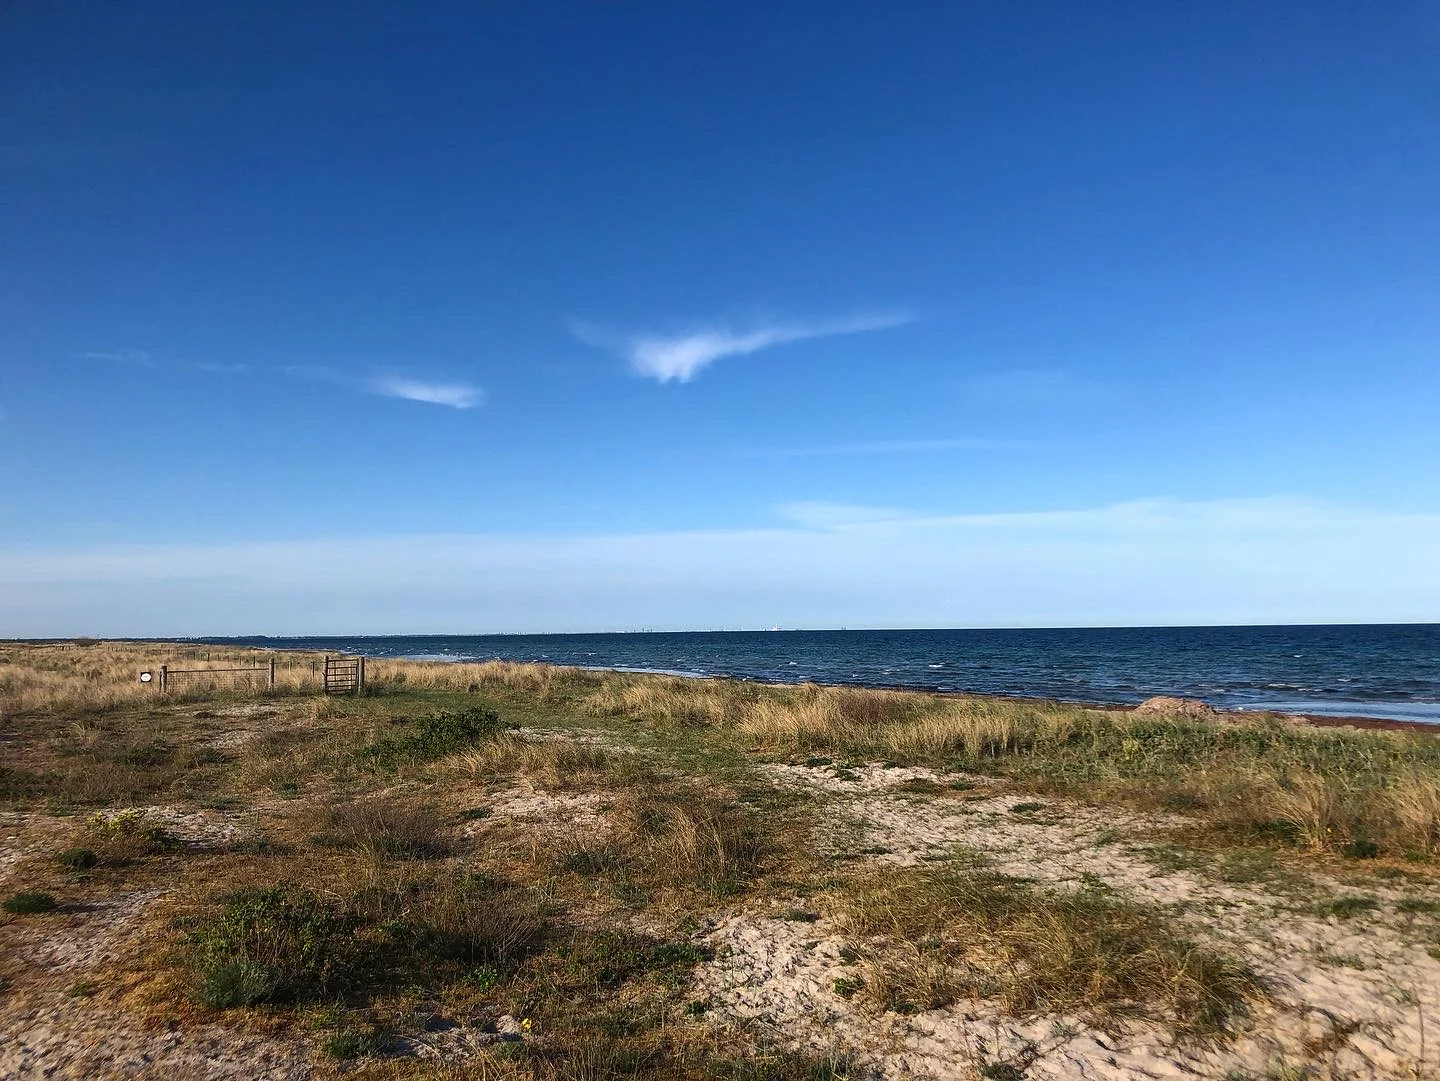
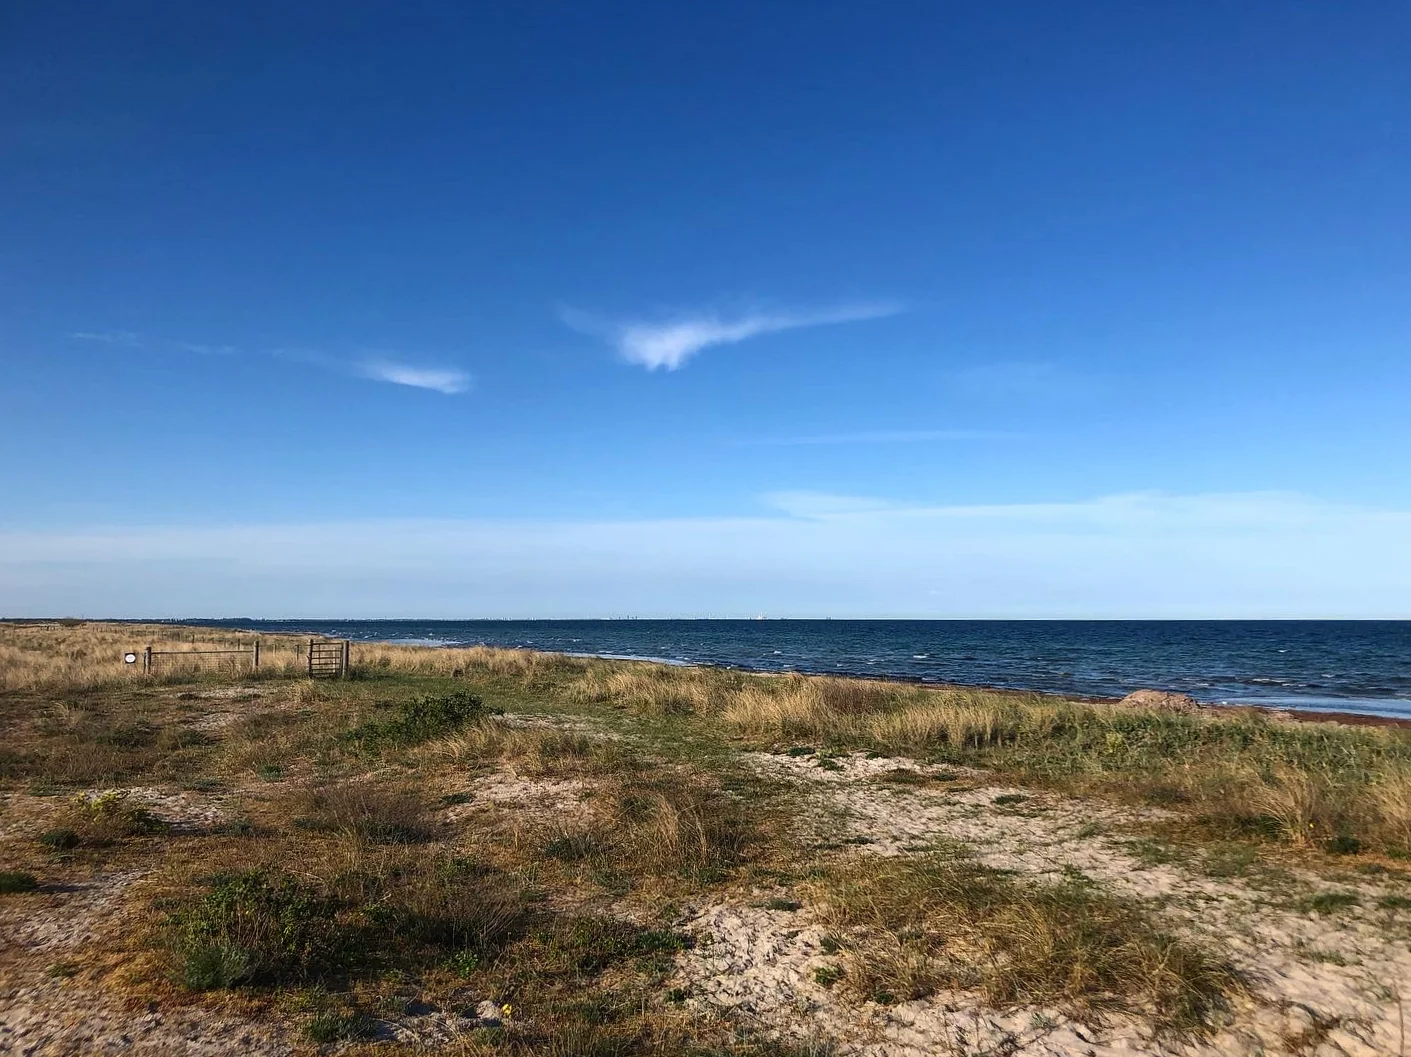
Simplify photography albums and straighten four horizons

Changed region(s): [[0.0, 0.562, 1.0, 1.0], [0.2807, 0.3434, 0.343, 0.3746], [0.4366, 0.3434, 0.4678, 0.3746]]

diff --git a/projekter.html b/projekter.html
@@ -304,54 +304,6 @@
           </button>
         </div>
       </div>
-      <h3 class="photo-album-title">Photo Album (2023)</h3>
-      <!-- Tilføj billeder ved at kopiere en miniatureknap.
-           src er det lille billede, data-full er det store, og aria-label beskriver motivet. -->
-      <div class="gallery">
-        <div class="gallery-preview">
-          <img class="gallery-main" src="assets/photography/2023/photo-59.webp" alt="Sunlight over a wooded landscape with a tall antenna in the foreground" width="1600" height="1200" loading="lazy" decoding="async">
-          <button class="image-enlarge" type="button" aria-label="Enlarge photo from the 2023 album" aria-haspopup="dialog" aria-controls="photo-dialog-2023" hidden>
-            <svg width="24" height="24" viewBox="0 0 24 24" fill="none" stroke="currentColor" stroke-width="2" aria-hidden="true">
-              <path d="M8 3H3v5m13-5h5v5M3 16v5h5m13-5v5h-5M3 3l6 6m12-6-6 6M3 21l6-6m12 6-6-6"/>
-            </svg>
-          </button>
-        </div>
-        <div class="gallery-thumbnails" role="group" aria-label="Choose a photo from 2023">
-          <button type="button" aria-label="Show image: Sunlight over a wooded landscape with a tall antenna in the foreground" aria-pressed="true">
-            <img src="assets/photography/2023/photo-59-thumb.webp" data-full="assets/photography/2023/photo-59.webp" alt="" width="320" height="240" loading="lazy" decoding="async">
-          </button>
-        </div>
-      </div>
-      <h3 class="photo-album-title">Photo Album (2022)</h3>
-      <!-- Tilføj billeder ved at kopiere en miniatureknap.
-           src er det lille billede, data-full er det store, og aria-label beskriver motivet. -->
-      <div class="gallery">
-        <div class="gallery-preview">
-          <img class="gallery-main" src="assets/photography/2022/photo-53.webp" alt="Sunlight breaking through bare woodland branches above a hazy field" width="1600" height="1200" loading="lazy" decoding="async">
-          <button class="image-enlarge" type="button" aria-label="Enlarge photo from the 2022 album" aria-haspopup="dialog" aria-controls="photo-dialog-2022" hidden>
-            <svg width="24" height="24" viewBox="0 0 24 24" fill="none" stroke="currentColor" stroke-width="2" aria-hidden="true">
-              <path d="M8 3H3v5m13-5h5v5M3 16v5h5m13-5v5h-5M3 3l6 6m12-6-6 6M3 21l6-6m12 6-6-6"/>
-            </svg>
-          </button>
-        </div>
-        <div class="gallery-thumbnails" role="group" aria-label="Choose a photo from 2022">
-          <button type="button" aria-label="Show image: Sunlight breaking through bare woodland branches above a hazy field" aria-pressed="true">
-            <img src="assets/photography/2022/photo-53-thumb.webp" data-full="assets/photography/2022/photo-53.webp" alt="" width="320" height="240" loading="lazy" decoding="async">
-          </button>
-          <button type="button" aria-label="Show image: Morning sun shining through mist above a green field" aria-pressed="false">
-            <img src="assets/photography/2022/photo-51-thumb.webp" data-full="assets/photography/2022/photo-51.webp" alt="" width="320" height="240" loading="lazy" decoding="async">
-          </button>
-          <button type="button" aria-label="Show image: Orange and pink sunset clouds above silhouetted rooftops and trees" aria-pressed="false">
-            <img src="assets/photography/2022/photo-42-thumb.webp" data-full="assets/photography/2022/photo-42.webp" alt="" width="320" height="240" loading="lazy" decoding="async">
-          </button>
-          <button type="button" aria-label="Show image: Low golden sun above a field of yellow flowers" aria-pressed="false">
-            <img src="assets/photography/2022/photo-15-thumb.webp" data-full="assets/photography/2022/photo-15.webp" alt="" width="320" height="240" loading="lazy" decoding="async">
-          </button>
-          <button type="button" aria-label="Show image: Sunlit trees and green foliage reflected in a quiet pond" aria-pressed="false">
-            <img src="assets/photography/2022/photo-14-thumb.webp" data-full="assets/photography/2022/photo-14.webp" alt="" width="320" height="240" loading="lazy" decoding="async">
-          </button>
-        </div>
-      </div>
       <h3 class="photo-album-title">Photo Album (2021)</h3>
       <!-- Tilføj billeder ved at kopiere en miniatureknap.
            src er det lille billede, data-full er det store, og aria-label beskriver motivet. -->
@@ -428,35 +380,20 @@
           <button type="button" aria-label="Show image: Orange sunset and power lines seen through a car window" aria-pressed="false">
             <img src="assets/photography/2021/photo-63-thumb.webp" data-full="assets/photography/2021/photo-63.webp" alt="" width="320" height="240" loading="lazy" decoding="async">
           </button>
-        </div>
-      </div>
-      <h3 class="photo-album-title">Photo Album (2020)</h3>
-      <!-- Tilføj billeder ved at kopiere en miniatureknap.
-           src er det lille billede, data-full er det store, og aria-label beskriver motivet. -->
-      <div class="gallery">
-        <div class="gallery-preview">
-          <img class="gallery-main" src="assets/photography/2020/photo-50.webp" alt="Orange sunset above a field of tall grass and dark trees" width="1600" height="1200" loading="lazy" decoding="async">
-          <button class="image-enlarge" type="button" aria-label="Enlarge photo from the 2020 album" aria-haspopup="dialog" aria-controls="photo-dialog-2020" hidden>
-            <svg width="24" height="24" viewBox="0 0 24 24" fill="none" stroke="currentColor" stroke-width="2" aria-hidden="true">
-              <path d="M8 3H3v5m13-5h5v5M3 16v5h5m13-5v5h-5M3 3l6 6m12-6-6 6M3 21l6-6m12 6-6-6"/>
-            </svg>
-          </button>
-        </div>
-        <div class="gallery-thumbnails" role="group" aria-label="Choose a photo from 2020">
-          <button type="button" aria-label="Show image: Orange sunset above a field of tall grass and dark trees" aria-pressed="true">
-            <img src="assets/photography/2020/photo-50-thumb.webp" data-full="assets/photography/2020/photo-50.webp" alt="" width="320" height="240" loading="lazy" decoding="async">
+          <button type="button" aria-label="Show image: Orange sunset above a field of tall grass and dark trees" aria-pressed="false">
+            <img src="assets/photography/2021/photo-50-thumb.webp" data-full="assets/photography/2021/photo-50.webp" alt="" width="320" height="240" loading="lazy" decoding="async">
           </button>
           <button type="button" aria-label="Show image: Wooden landing beside still water reflecting the evening sky" aria-pressed="false">
-            <img src="assets/photography/2020/photo-43-thumb.webp" data-full="assets/photography/2020/photo-43.webp" alt="" width="320" height="240" loading="lazy" decoding="async">
+            <img src="assets/photography/2021/photo-43-thumb.webp" data-full="assets/photography/2021/photo-43.webp" alt="" width="320" height="240" loading="lazy" decoding="async">
           </button>
           <button type="button" aria-label="Show image: Dark trees and their reflections around a lake at dusk" aria-pressed="false">
-            <img src="assets/photography/2020/photo-41-thumb.webp" data-full="assets/photography/2020/photo-41.webp" alt="" width="320" height="240" loading="lazy" decoding="async">
+            <img src="assets/photography/2021/photo-41-thumb.webp" data-full="assets/photography/2021/photo-41.webp" alt="" width="320" height="240" loading="lazy" decoding="async">
           </button>
           <button type="button" aria-label="Show image: Moonlight and pale sky reflected in a dark lake framed by trees" aria-pressed="false">
-            <img src="assets/photography/2020/photo-39-thumb.webp" data-full="assets/photography/2020/photo-39.webp" alt="" width="320" height="240" loading="lazy" decoding="async">
+            <img src="assets/photography/2021/photo-39-thumb.webp" data-full="assets/photography/2021/photo-39.webp" alt="" width="320" height="240" loading="lazy" decoding="async">
           </button>
           <button type="button" aria-label="Show image: Trees reflected in a still lake beneath a fading evening sky" aria-pressed="false">
-            <img src="assets/photography/2020/photo-38-thumb.webp" data-full="assets/photography/2020/photo-38.webp" alt="" width="320" height="240" loading="lazy" decoding="async">
+            <img src="assets/photography/2021/photo-38-thumb.webp" data-full="assets/photography/2021/photo-38.webp" alt="" width="320" height="240" loading="lazy" decoding="async">
           </button>
         </div>
       </div>
@@ -812,7 +749,6 @@
     </div>
   </dialog>
 
-
   <dialog class="image-dialog" id="photo-dialog-2026" aria-label="Enlarged photo from 2026">
     <form method="dialog"><button class="image-close" aria-label="Close enlarged photo">Close ×</button></form>
     <div class="image-viewer">
@@ -840,34 +776,7 @@
     </div>
   </dialog>
 
-  <dialog class="image-dialog" id="photo-dialog-2023" aria-label="Enlarged photo from 2023">
-    <form method="dialog"><button class="image-close" aria-label="Close enlarged photo">Close ×</button></form>
-    <div class="image-viewer">
-      <button class="image-arrow image-previous" type="button" aria-label="Previous photo">❮</button>
-      <img class="enlarged-image" alt="" loading="lazy" decoding="async">
-      <button class="image-arrow image-next" type="button" aria-label="Next photo">❯</button>
-    </div>
-  </dialog>
-
-  <dialog class="image-dialog" id="photo-dialog-2022" aria-label="Enlarged photo from 2022">
-    <form method="dialog"><button class="image-close" aria-label="Close enlarged photo">Close ×</button></form>
-    <div class="image-viewer">
-      <button class="image-arrow image-previous" type="button" aria-label="Previous photo">❮</button>
-      <img class="enlarged-image" alt="" loading="lazy" decoding="async">
-      <button class="image-arrow image-next" type="button" aria-label="Next photo">❯</button>
-    </div>
-  </dialog>
-
   <dialog class="image-dialog" id="photo-dialog-2021" aria-label="Enlarged photo from 2021">
-    <form method="dialog"><button class="image-close" aria-label="Close enlarged photo">Close ×</button></form>
-    <div class="image-viewer">
-      <button class="image-arrow image-previous" type="button" aria-label="Previous photo">❮</button>
-      <img class="enlarged-image" alt="" loading="lazy" decoding="async">
-      <button class="image-arrow image-next" type="button" aria-label="Next photo">❯</button>
-    </div>
-  </dialog>
-
-  <dialog class="image-dialog" id="photo-dialog-2020" aria-label="Enlarged photo from 2020">
     <form method="dialog"><button class="image-close" aria-label="Close enlarged photo">Close ×</button></form>
     <div class="image-viewer">
       <button class="image-arrow image-previous" type="button" aria-label="Previous photo">❮</button>
